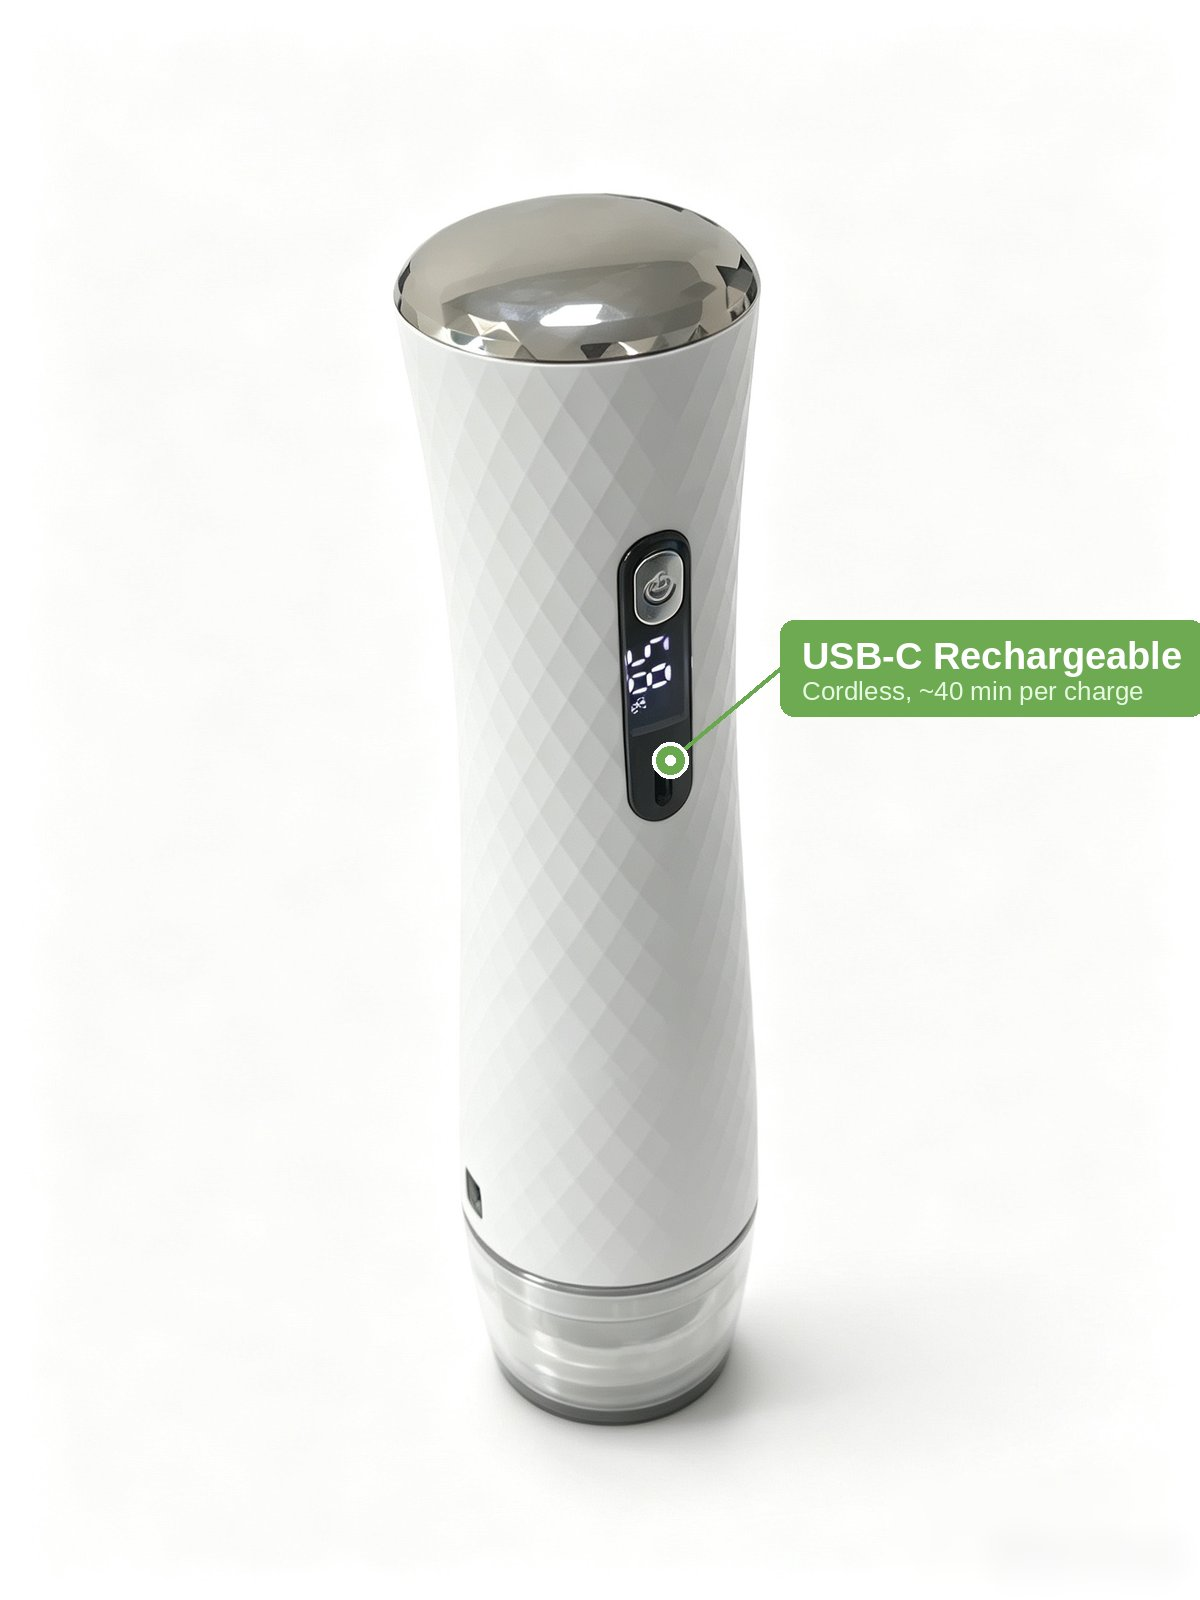
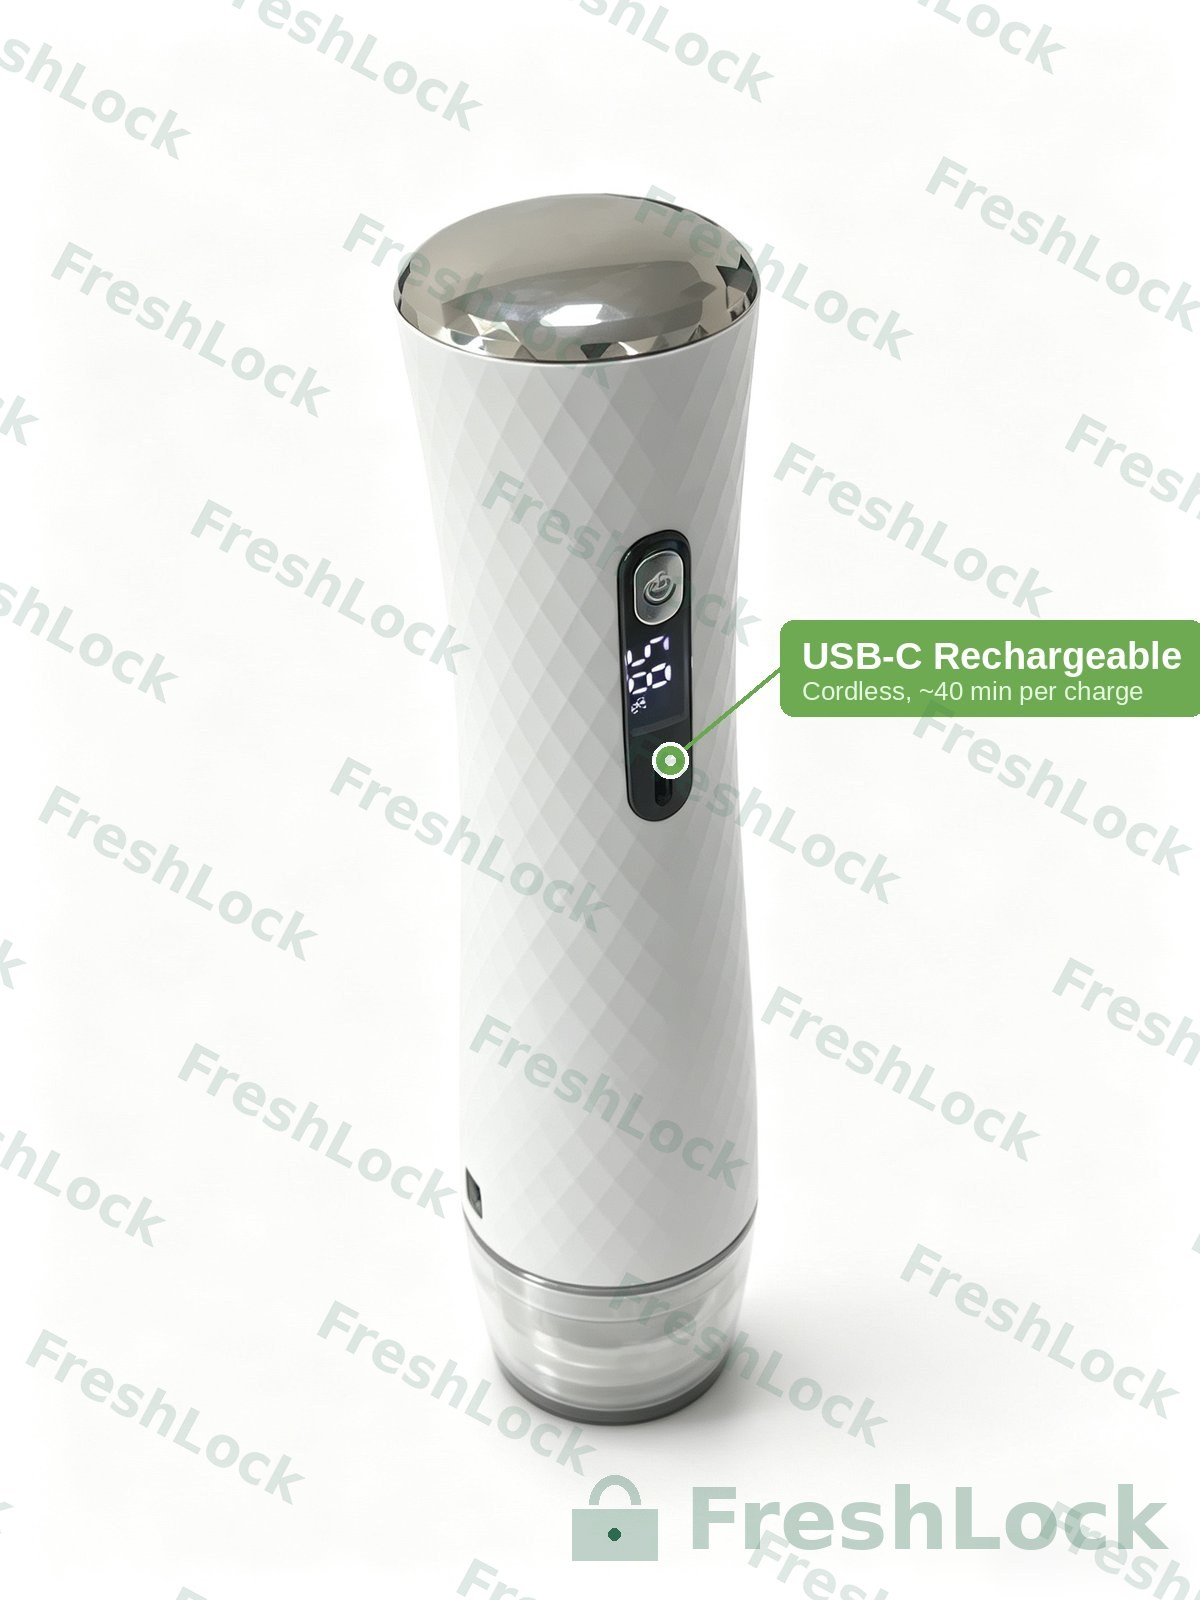
V1.7.1: 水印重制V4+Gallery修复object-contain+Starter Kit补细节图+AI假图sealer-use删除
- 修复V3水印脚本bug(ImageMagick覆写所有图为纯黑水印层): 改用Python Pillow直接合成
- 水印V4: 智能亮度判断(-28度斜向FreshLock平铺+右下角logo锁,opacity 15-30%)
- Gallery主图: aspect-square object-cover → object-contain bg-stone-50, 修竖图detail图绿色callout文字被裁切
- Starter Kit gallery补全: sealer-kit/travel-kit/main/angled + 5张detail(cup/suction/usbc/tube/drain) + 3张袋图
- image字段从sealer-main改为sealer-kit(套装主图用礼盒图)
- 删除AI假图sealer-use.jpg(orig_backup保留备份)

diff --git a/lib/data.ts b/lib/data.ts
@@ -73,10 +73,17 @@ export const products: Product[] = [
       'Everything you need to start vacuum sealing today — the FreshLock Pro handheld vacuum sealer plus 30 BPA-free embossed valve bags in three sizes (10 small, 10 medium, 10 large), all packed in a premium full-colour gift box. Stop freezer burn on meal prep, leftovers, marinating meats, and sous-vide portions the moment you unbox. The sealer works with most embossed valve bags, so you are never locked into expensive replacements.',
     shortDescription:
       'FreshLock Pro + 30 BPA-free vacuum zipper bags in 3 sizes — everything to get started sealing today.',
-    image: '/images/products/sealer-main.jpg',
+    image: '/images/products/sealer-kit.jpg',
     images: [
+      '/images/products/sealer-kit.jpg',
+      '/images/products/travel-kit.jpg',
       '/images/products/sealer-main.jpg',
       '/images/products/sealer-angled.jpg',
+      '/images/products/sealer-detail-suction.jpg',
+      '/images/products/sealer-detail-usbc.jpg',
+      '/images/products/sealer-detail-cup.jpg',
+      '/images/products/sealer-detail-tube.jpg',
+      '/images/products/sealer-drain.jpg',
       '/images/products/bags-small.jpg',
       '/images/products/bags-med.jpg',
       '/images/products/bags-lrg.jpg',

diff --git a/app/products/[slug]/GalleryClient.tsx b/app/products/[slug]/GalleryClient.tsx
@@ -18,14 +18,14 @@ export default function GalleryClient({
 
   return (
     <section>
-      <div className="rounded-xl overflow-hidden bg-white shadow mb-4 relative">
+      <div className="rounded-xl overflow-hidden bg-stone-50 shadow mb-4 relative flex items-center justify-center" style={{ minHeight: 'min(80vw, 560px)' }}>
         <Image
           src={allImages[active]}
           alt={`${name} — ${shortDescription}`}
-          className="w-full aspect-square object-cover"
+          className="max-w-full max-h-[80vh] w-auto h-auto object-contain"
           itemProp="image"
-          width={800}
-          height={800}
+          width={1200}
+          height={1600}
           priority
           sizes="(max-width: 768px) 100vw, 600px"
         />
